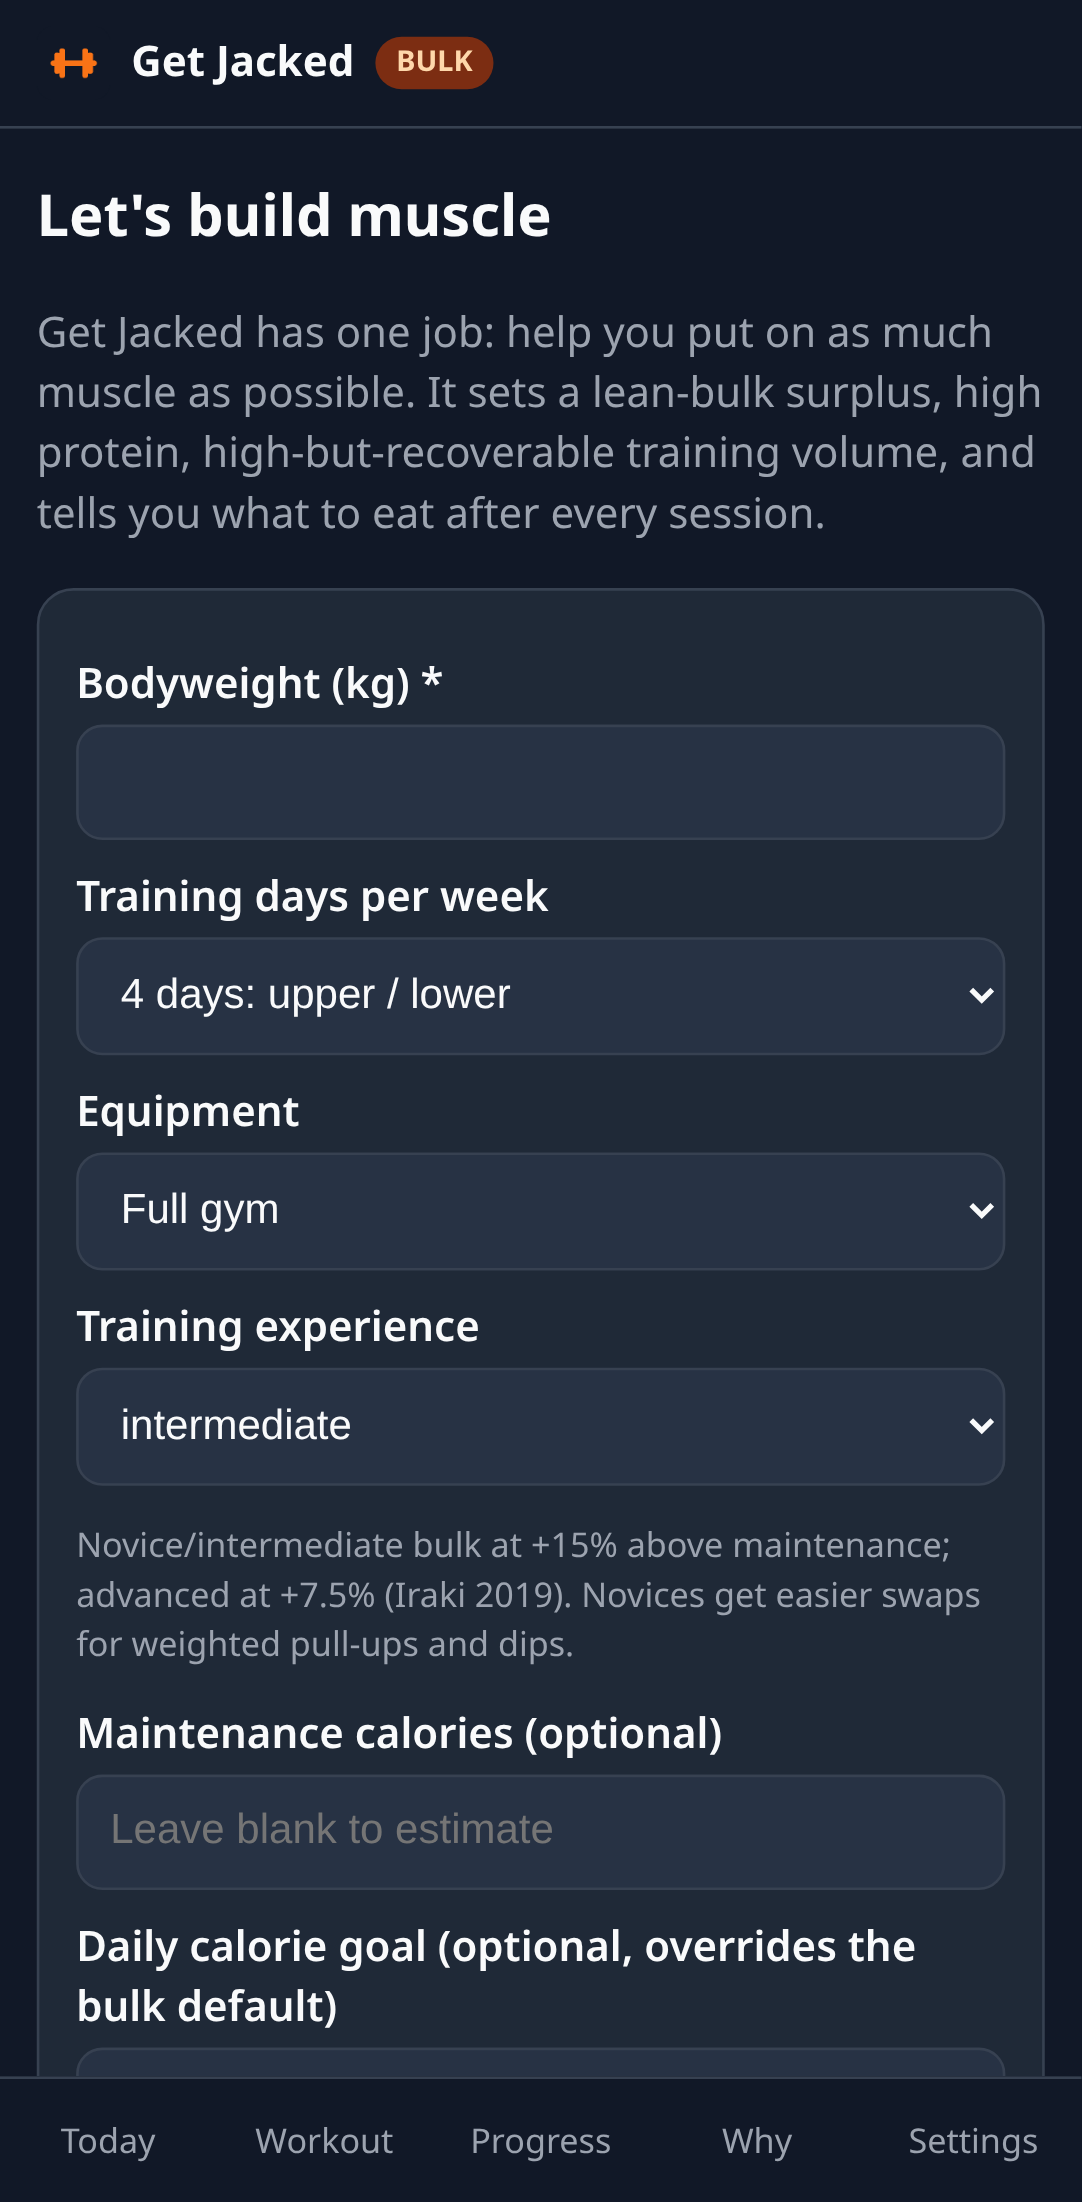
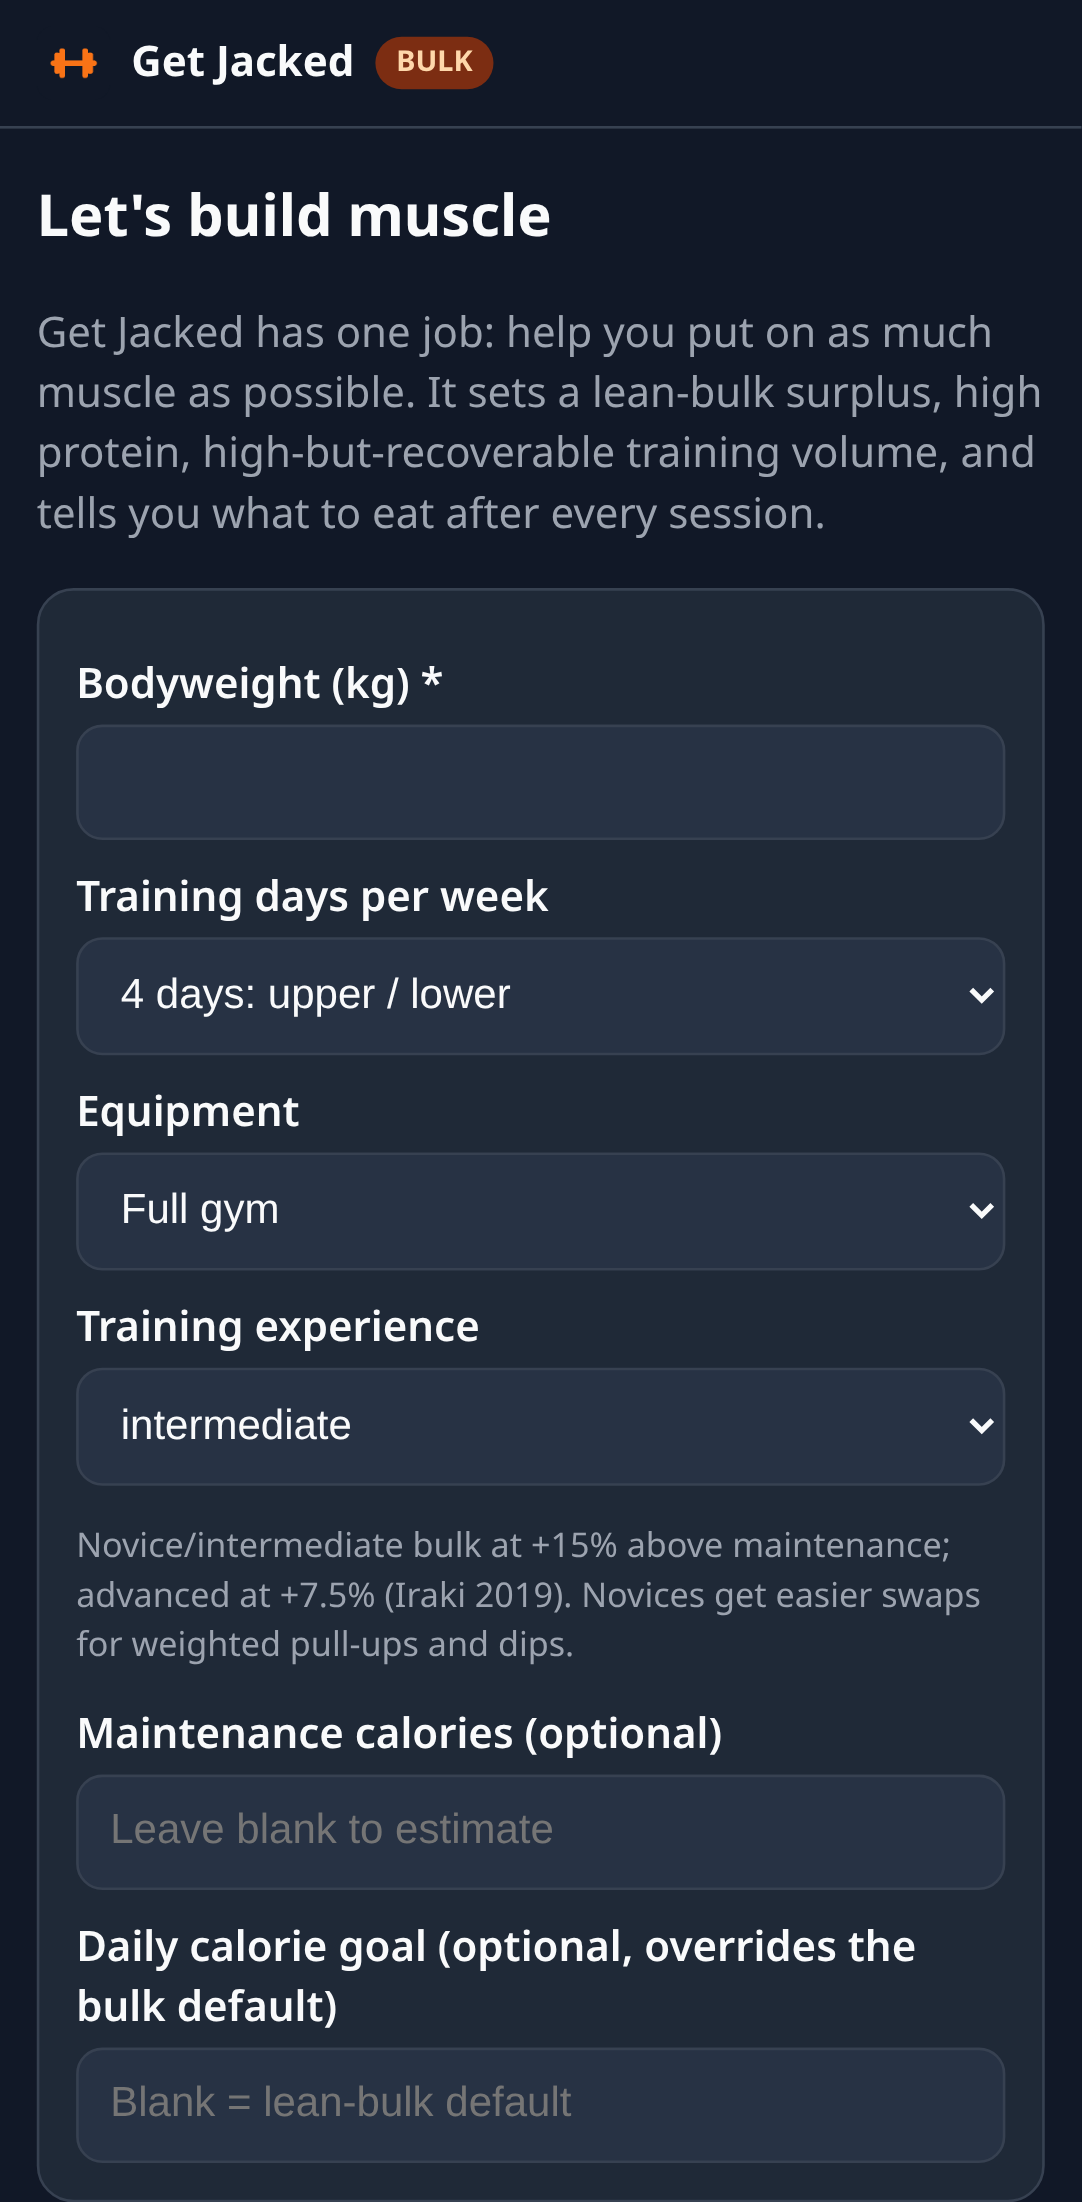
Password lock screen (SHA-256 hash, stays unlocked, Lock app in Settings, routes after unlock, offline); fix [hidden] being overridden (nav showed on onboarding); cache v5

Changed region(s): [[0.061, 0.9264, 0.976, 0.9882], [0.0305, 0.9882, 0.061, 1.0]]

diff --git a/app.js b/app.js
@@ -55,7 +55,37 @@ function targets() { return dailyTargets({ ...S.profile, kcalAdjust: S.kcalAdjus
 
 // ---------- views ----------
 const routes = { onboarding, today, workout, summary, progress, why, settings };
+// ---------- lock screen (client-side deterrent only: this is a public static site) ----------
+const LOCK_KEY = "getjacked.unlocked";
[1 lines of base64/hex data omitted]
+const isUnlocked = () => { try { return localStorage.getItem(LOCK_KEY) === "1"; } catch { return false; } };
+async function sha256Hex(text) {
+  const buf = await crypto.subtle.digest("SHA-256", new TextEncoder().encode(text));
+  return [...new Uint8Array(buf)].map((b) => b.toString(16).padStart(2, "0")).join("");
+}
+function lockScreen() {
+  $("#nav").hidden = true; $("#rest").hidden = true; document.body.classList.add("locked");
+  view.innerHTML = `
+  <form class="lock" id="lock" autocomplete="off">
+    <img src="icons/icon-192.png" alt="" width="88" height="88">
+    <h1>Get Jacked</h1>
+    <p class="muted">Enter the password to open the app.</p>
+    <label for="lock-pw" class="sr">Password</label>
+    <input id="lock-pw" type="password" autocomplete="current-password" placeholder="Password" required>
+    <p id="lock-err" class="err" hidden>Wrong password. Try again.</p>
+    <button class="primary" id="lock-go" type="submit">Unlock</button>
+  </form>`;
+  const inp = $("#lock-pw"); inp.focus();
+  $("#lock").onsubmit = async (e) => {
+    e.preventDefault();
+    const ok = (await sha256Hex(inp.value.trim().toLowerCase())) === PASS_SHA256;
+    if (!ok) { $("#lock-err").hidden = false; inp.select(); return; }
+    localStorage.setItem(LOCK_KEY, "1"); document.body.classList.remove("locked"); render(); // routes to whatever the URL asked for (e.g. #/summary from a notification)
+  };
+}
+
 function render() {
+  if (!isUnlocked()) return lockScreen();
   let r = (location.hash.replace(/^#\//, "") || "today").split("?")[0];
   if (!S.profile && r !== "why") r = "onboarding";
   if (!routes[r]) r = "today";
@@ -401,7 +431,7 @@ function startRest(sec, label) {
 const fmt = (ms) => { const s = Math.max(0, Math.ceil(ms / 1000)); return `${Math.floor(s / 60)}:${String(s % 60).padStart(2, "0")}`; };
 function restTick() {
   const bar = $("#rest"), r = S.active?.rest;
-  if (!r || !S.profile) { bar.hidden = true; document.body.classList.remove("resting"); return; }
+  if (!r || !S.profile || !isUnlocked()) { bar.hidden = true; document.body.classList.remove("resting"); return; }
   const left = r.endAt - Date.now();
   bar.hidden = false; document.body.classList.add("resting");
   if (left <= 0) {
@@ -641,7 +671,9 @@ function settings() {
     <p id="bk-msg" class="small"></p></div>
   <div class="card small muted">Install on Android: open in Chrome → tap <b>Install app</b> (top right) or ⋮ → <b>Install app</b>.<br>
     iPhone: Safari → Share → Add to Home Screen.</div>
+  <div class="row"><button id="lock-app">Lock app</button></div>
   <p><button class="small" id="reset">Reset all data</button></p>`;
+  $("#lock-app").onclick = () => { localStorage.removeItem(LOCK_KEY); go("today"); render(); };
   $("#st-save").onclick = () => {
     const r = readProfile(); if (r.error) { $("#st-err").textContent = r.error; $("#st-err").hidden = false; return; }
     const np = r.profile, changed = np.days !== p.days || np.equipment !== p.equipment || np.experience !== p.experience;

diff --git a/sw.js b/sw.js
@@ -1,5 +1,5 @@
 // Get Jacked service worker: offline app shell + notification taps.
-const VERSION = "get-jacked-v4";
+const VERSION = "get-jacked-v5";
 // Exercise photos (generated from images.js; tests check they match).
 const IMAGES = ["./img/ex/ball-leg-curl.webp", "./img/ex/band-assisted-pull-up.webp", "./img/ex/band-good-morning.webp", "./img/ex/band-pull-apart.webp", "./img/ex/barbell-bench-press-medium-grip.webp", "./img/ex/barbell-full-squat.webp", "./img/ex/barbell-hip-thrust.webp", "./img/ex/bent-arm-dumbbell-pullover.webp", "./img/ex/cable-crossover.webp", "./img/ex/cable-crunch.webp", "./img/ex/cable-rope-overhead-triceps-extension.webp", "./img/ex/cable-seated-lateral-raise.webp", "./img/ex/calf-raise-on-a-dumbbell.webp", "./img/ex/cross-over-with-bands.webp", "./img/ex/crunches.webp", "./img/ex/dip-machine.webp", "./img/ex/dips-chest-version.webp", "./img/ex/dumbbell-bench-press.webp", "./img/ex/dumbbell-flyes.webp", "./img/ex/dumbbell-lunges.webp", "./img/ex/dumbbell-step-ups.webp", "./img/ex/ez-bar-curl.webp", "./img/ex/ez-bar-skullcrusher.webp", "./img/ex/face-pull.webp", "./img/ex/goblet-squat.webp", "./img/ex/hack-squat.webp", "./img/ex/hammer-curls.webp", "./img/ex/hanging-leg-raise.webp", "./img/ex/incline-dumbbell-curl.webp", "./img/ex/incline-dumbbell-press.webp", "./img/ex/inverted-row.webp", "./img/ex/kettlebell-one-legged-deadlift.webp", "./img/ex/lateral-raise-with-bands.webp", "./img/ex/leg-extensions.webp", "./img/ex/leg-press.webp", "./img/ex/lying-dumbbell-tricep-extension.webp", "./img/ex/lying-leg-curls.webp", "./img/ex/lying-t-bar-row.webp", "./img/ex/machine-bench-press.webp", "./img/ex/natural-glute-ham-raise.webp", "./img/ex/one-arm-dumbbell-row.webp", "./img/ex/one-arm-side-laterals.webp", "./img/ex/one-legged-cable-kickback.webp", "./img/ex/pullups.webp", "./img/ex/push-ups-close-triceps-position.webp", "./img/ex/push-ups-with-feet-elevated.webp", "./img/ex/pushups.webp", "./img/ex/reverse-crunch.webp", "./img/ex/reverse-machine-flyes.webp", "./img/ex/romanian-deadlift.webp", "./img/ex/seated-band-hamstring-curl.webp", "./img/ex/seated-bent-over-rear-delt-raise.webp", "./img/ex/seated-cable-rows.webp", "./img/ex/seated-calf-raise.webp", "./img/ex/seated-leg-curl.webp", "./img/ex/side-lateral-raise.webp", "./img/ex/single-leg-glute-bridge.webp", "./img/ex/split-squat-with-dumbbells.webp", "./img/ex/split-squats.webp", "./img/ex/squats-with-bands.webp", "./img/ex/standing-biceps-cable-curl.webp", "./img/ex/standing-cable-chest-press.webp", "./img/ex/standing-calf-raises.webp", "./img/ex/standing-dumbbell-calf-raise.webp", "./img/ex/standing-dumbbell-triceps-extension.webp", "./img/ex/stiff-legged-barbell-deadlift.webp", "./img/ex/stiff-legged-dumbbell-deadlift.webp", "./img/ex/triceps-pushdown-rope-attachment.webp", "./img/ex/triceps-pushdown.webp", "./img/ex/weighted-crunches.webp", "./img/ex/weighted-sissy-squat.webp", "./img/ex/wide-grip-lat-pulldown.webp"];
 const SHELL = [

diff --git a/styles.css b/styles.css
@@ -1,4 +1,5 @@
 :root{--bg:#111827;--card:#1f2937;--card2:#273244;--fg:#f9fafb;--muted:#9ca3af;--accent:#f97316;--accent-fg:#111827;--ok:#22c55e;--warn:#f59e0b;--bad:#ef4444;--b:#374151}
+[hidden]{display:none!important}
 *{box-sizing:border-box}html,body{margin:0;background:var(--bg);color:var(--fg);font:16px/1.45 system-ui,-apple-system,Segoe UI,Roboto,sans-serif}
 .top{position:sticky;top:0;z-index:5;display:flex;align-items:center;gap:8px;padding:10px 14px;padding-top:max(10px,env(safe-area-inset-top));background:var(--bg);border-bottom:1px solid var(--b)}
 .pill{font-size:11px;padding:2px 8px;border-radius:99px;background:#7c2d12;color:#fed7aa;font-weight:700}
@@ -73,3 +74,7 @@ details.sw .row input{min-height:44px;min-width:0}details.sw .row button{flex:0 
 .alt-pick{flex:1;min-width:0;display:flex;flex-direction:column;align-items:flex-start;text-align:left;border-radius:10px;padding:10px 12px;min-height:56px}
 .lightbox.photo{z-index:21}
 .lb-card .exthumb img{width:100%;height:100%;border-radius:0;object-fit:cover;object-position:22% 50%}
+.lock{max-width:360px;margin:8vh auto 0;text-align:center;display:flex;flex-direction:column;gap:10px;align-items:stretch}
+.lock img{align-self:center;border-radius:20px}.lock h1{margin:4px 0 0}
+.sr{position:absolute;width:1px;height:1px;overflow:hidden;clip:rect(0 0 0 0)}
+body.locked .top .pill,body.locked #install-btn{display:none}

diff --git a/README.md b/README.md
@@ -27,6 +27,7 @@ and only work for the home-screen app.
 - `notify.js`: permission + `registration.showNotification`, with a fallback card.
 - `sw.js`: offline app shell (cache-first, refreshed in the background), notification taps.
 - `images.js` + `img/ex/`: exercise photos (start | finish) from free-exercise-db (public domain, Unlicense), resized to small WebP, cached offline; a muscle icon where there is no good match.
+- Lock screen: password checked against a SHA-256 hash in `app.js` (client-side deterrent only); the device stays unlocked until **Lock app** in Settings.
 - Screens: onboarding (or restore a backup), Today (deload card, week summary, macros), Workout
   (Start button, per-set kg/reps/RIR, rest timer that starts on tick with ±15 s and beep/vibrate, swap,
   GO HEAVIER badge, starting-weight helper, calibration-week tip), Summary (post-workout macros, new
